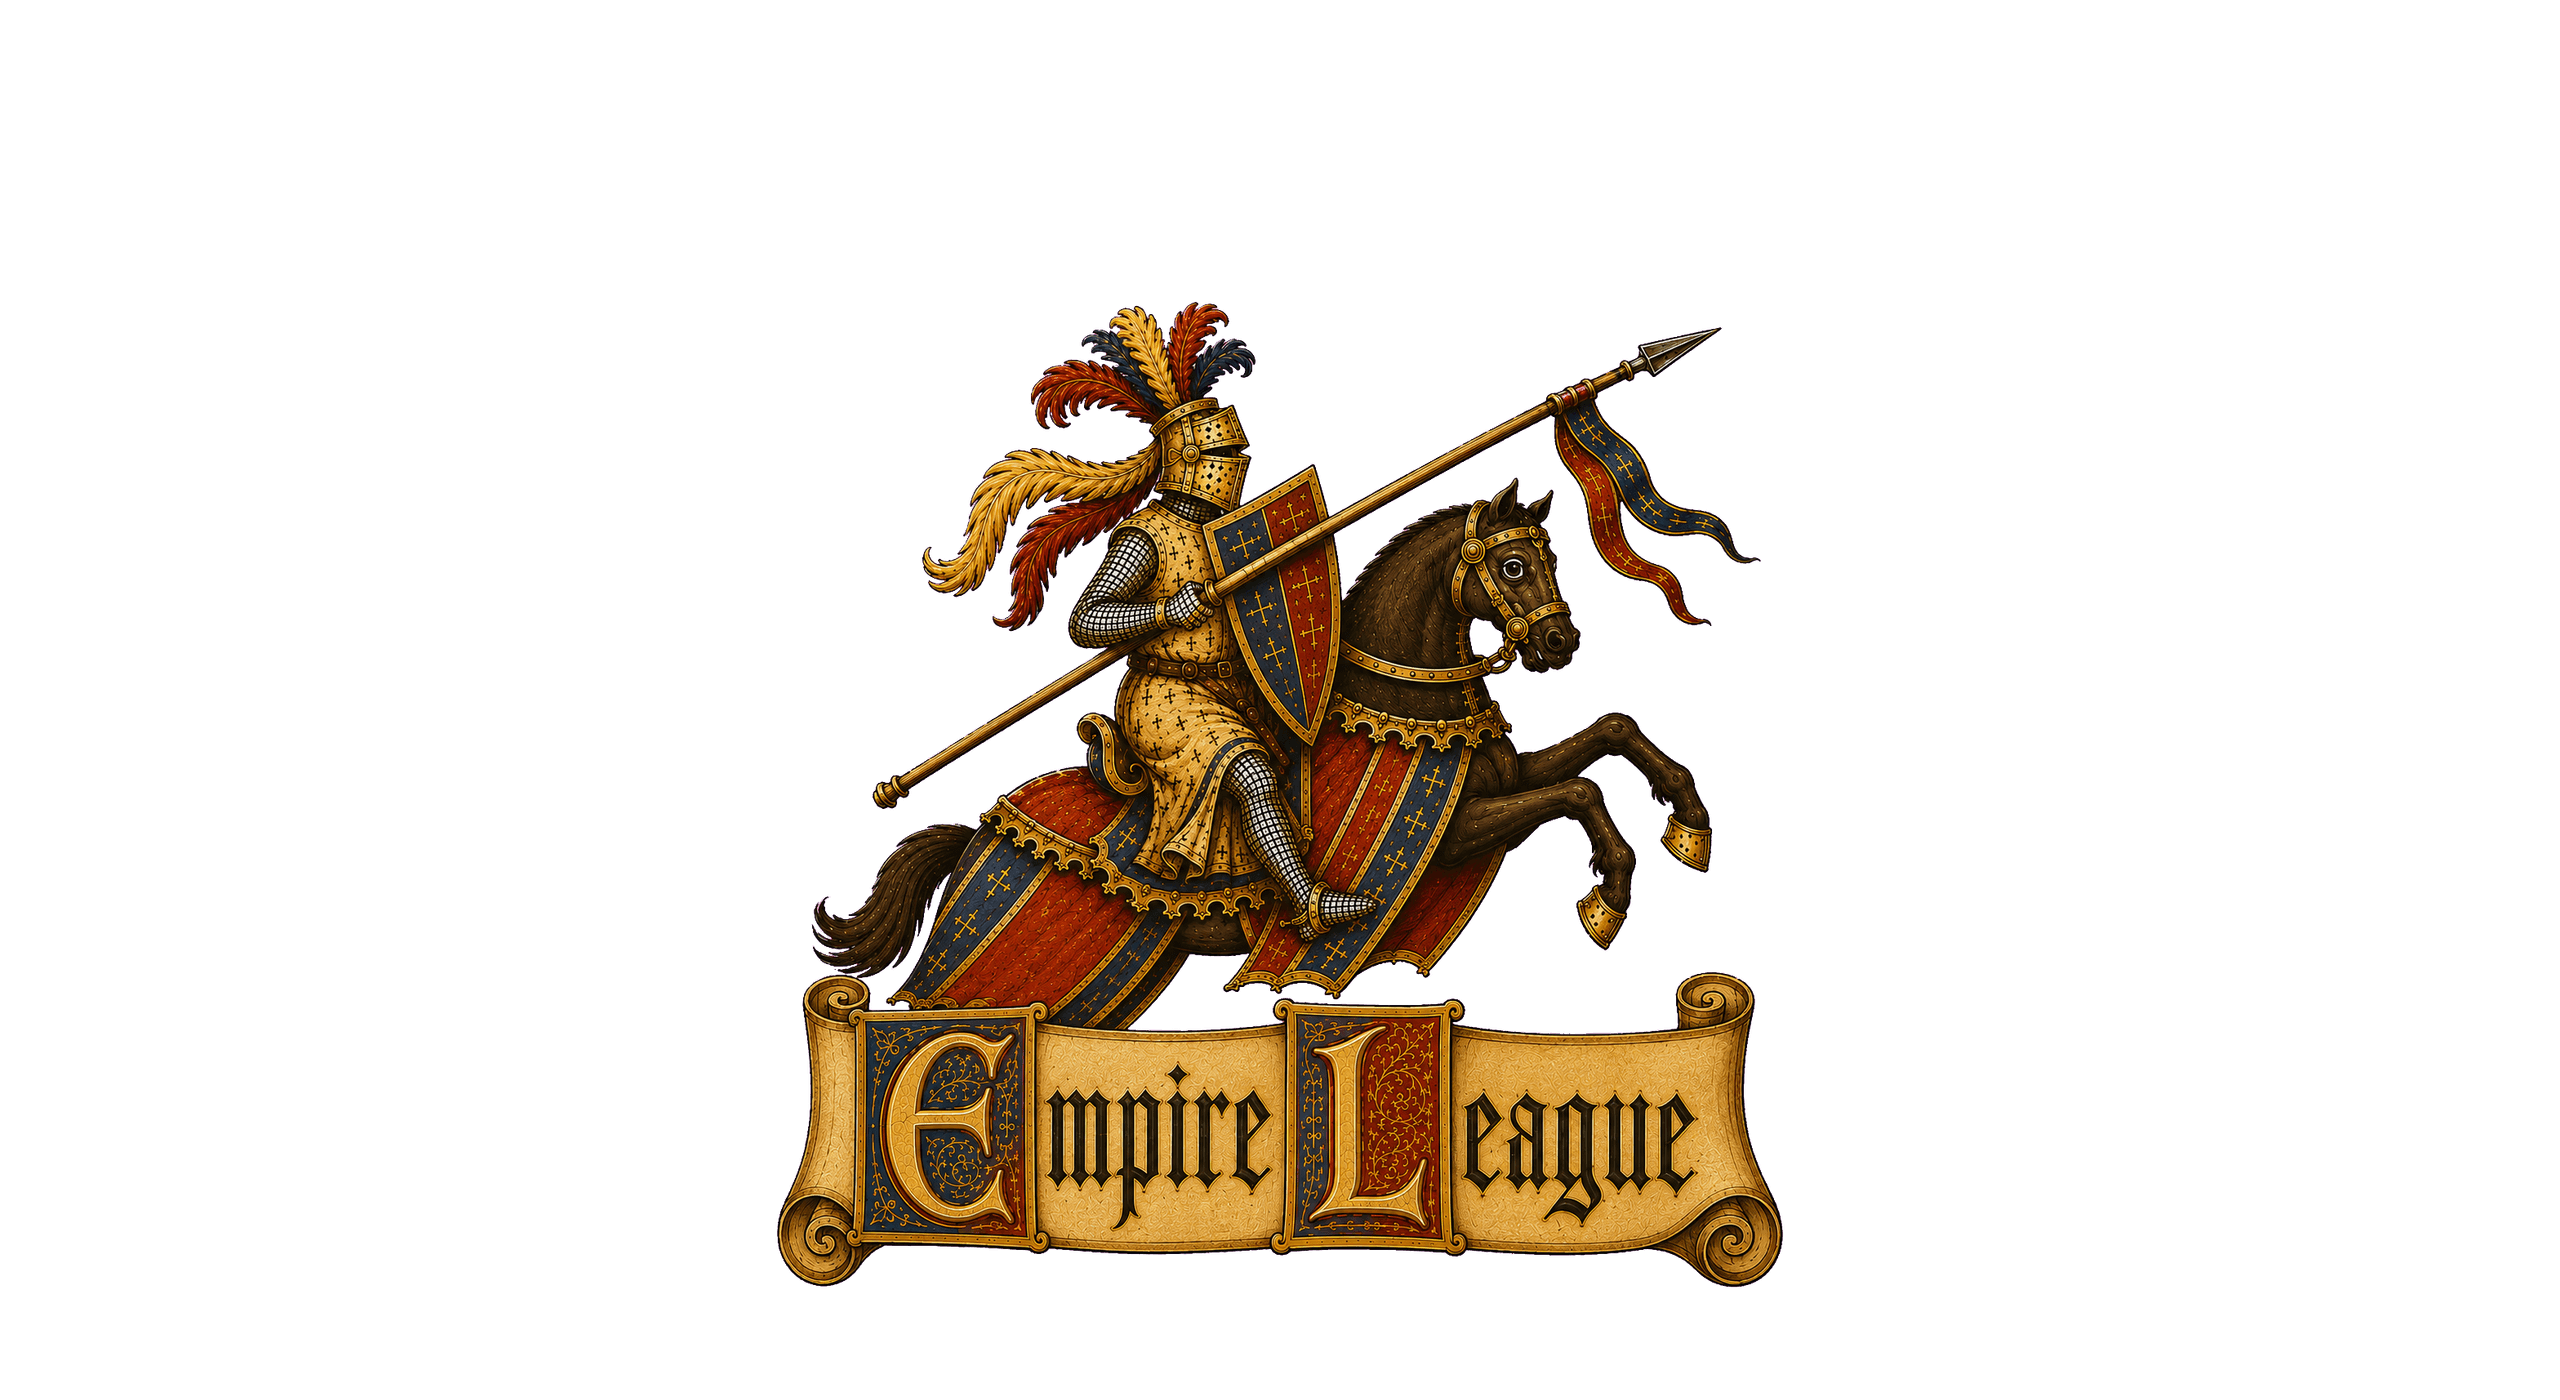
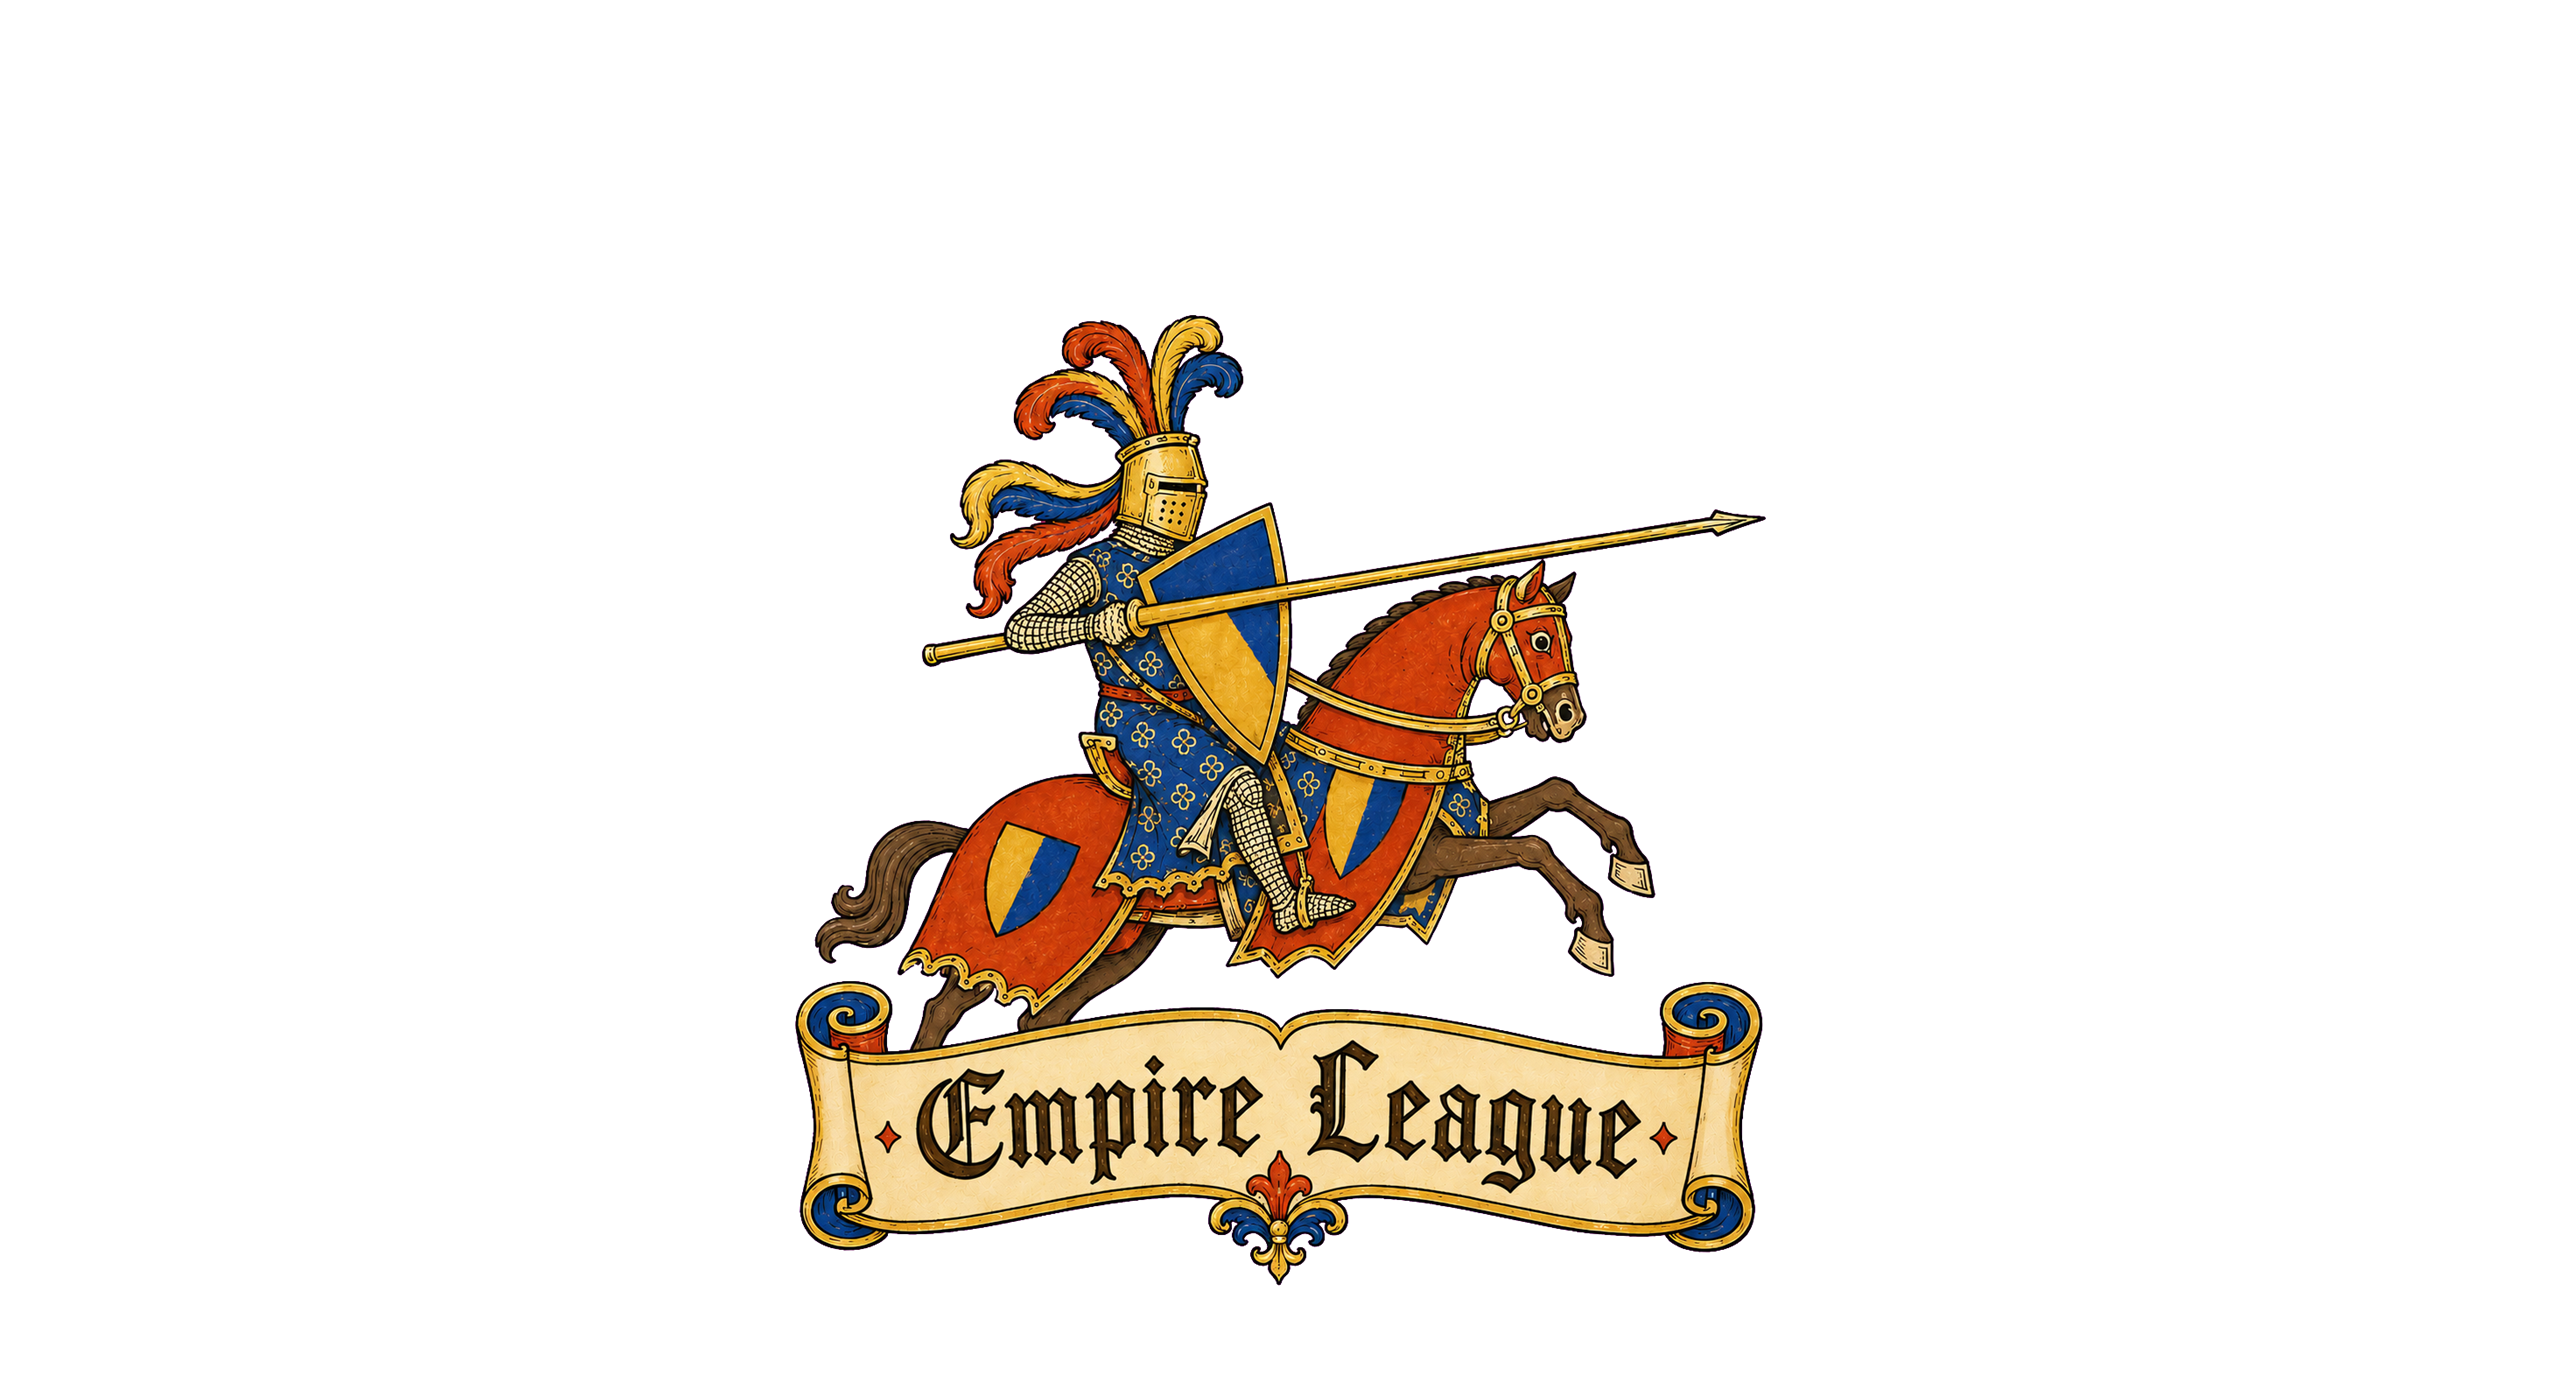
Replace EL4 branding with EL5 artwork

Changed region(s): [[0.2812, 0.215, 0.7188, 0.9214], [0.6562, 0.215, 0.6875, 0.2457], [0.625, 0.2457, 0.6562, 0.2764]]

diff --git a/landing/app-preview/index.html b/landing/app-preview/index.html
@@ -13600,7 +13600,7 @@ Error generating stack: ` + n.message + `
     Vietnamese: z0,
     Wei: _0,
     Wu: D0
-  }, L0 = "" + new URL("assets/el4-ranked-D5FXYSG-.png", import.meta.url).href;
+  }, L0 = "" + new URL("assets/el5-ranked-9NaLCyak.png", import.meta.url).href;
   function T1() {
     return i.jsx("aside", {
       className: "matchmaking-brand",
@@ -18842,7 +18842,7 @@ Error generating stack: ` + n.message + `
       ]
     });
   }
-  const Ay = "" + new URL("assets/el4-loading-C42nA83f.png", import.meta.url).href, Pt = {
+  const Ay = "" + new URL("assets/el5-loading-Dpc7DoCH.png", import.meta.url).href, Pt = {
     async getSnapshot() {
       return pe ? {
         friends: k1,

diff --git a/src/renderer/App.tsx b/src/renderer/App.tsx
@@ -16,7 +16,7 @@ import { useAppStore } from "./state/appStore";
 import { LogIn } from "lucide-react";
 import { useEffect, useRef, useState } from "react";
 import type { MouseTestPointerInfo } from "../shared/contracts/gameIntegration";
-import loadingScreenArtwork from "./assets/el4-loading.png";
+import loadingScreenArtwork from "./assets/el5-loading.png";
 import { socialService } from "./services/socialService";
 import { isPreviewMode } from "./previewMode";
 import { previewFriendRequests, previewFriends } from "./mocks/previewData";

diff --git a/src/renderer/components/match/MatchmakingBrand.tsx b/src/renderer/components/match/MatchmakingBrand.tsx
@@ -1,4 +1,4 @@
-import empireLeagueArtwork from "../../assets/el4-ranked.png";
+import empireLeagueArtwork from "../../assets/el5-ranked.png";
 
 export function MatchmakingBrand() {
   return (
